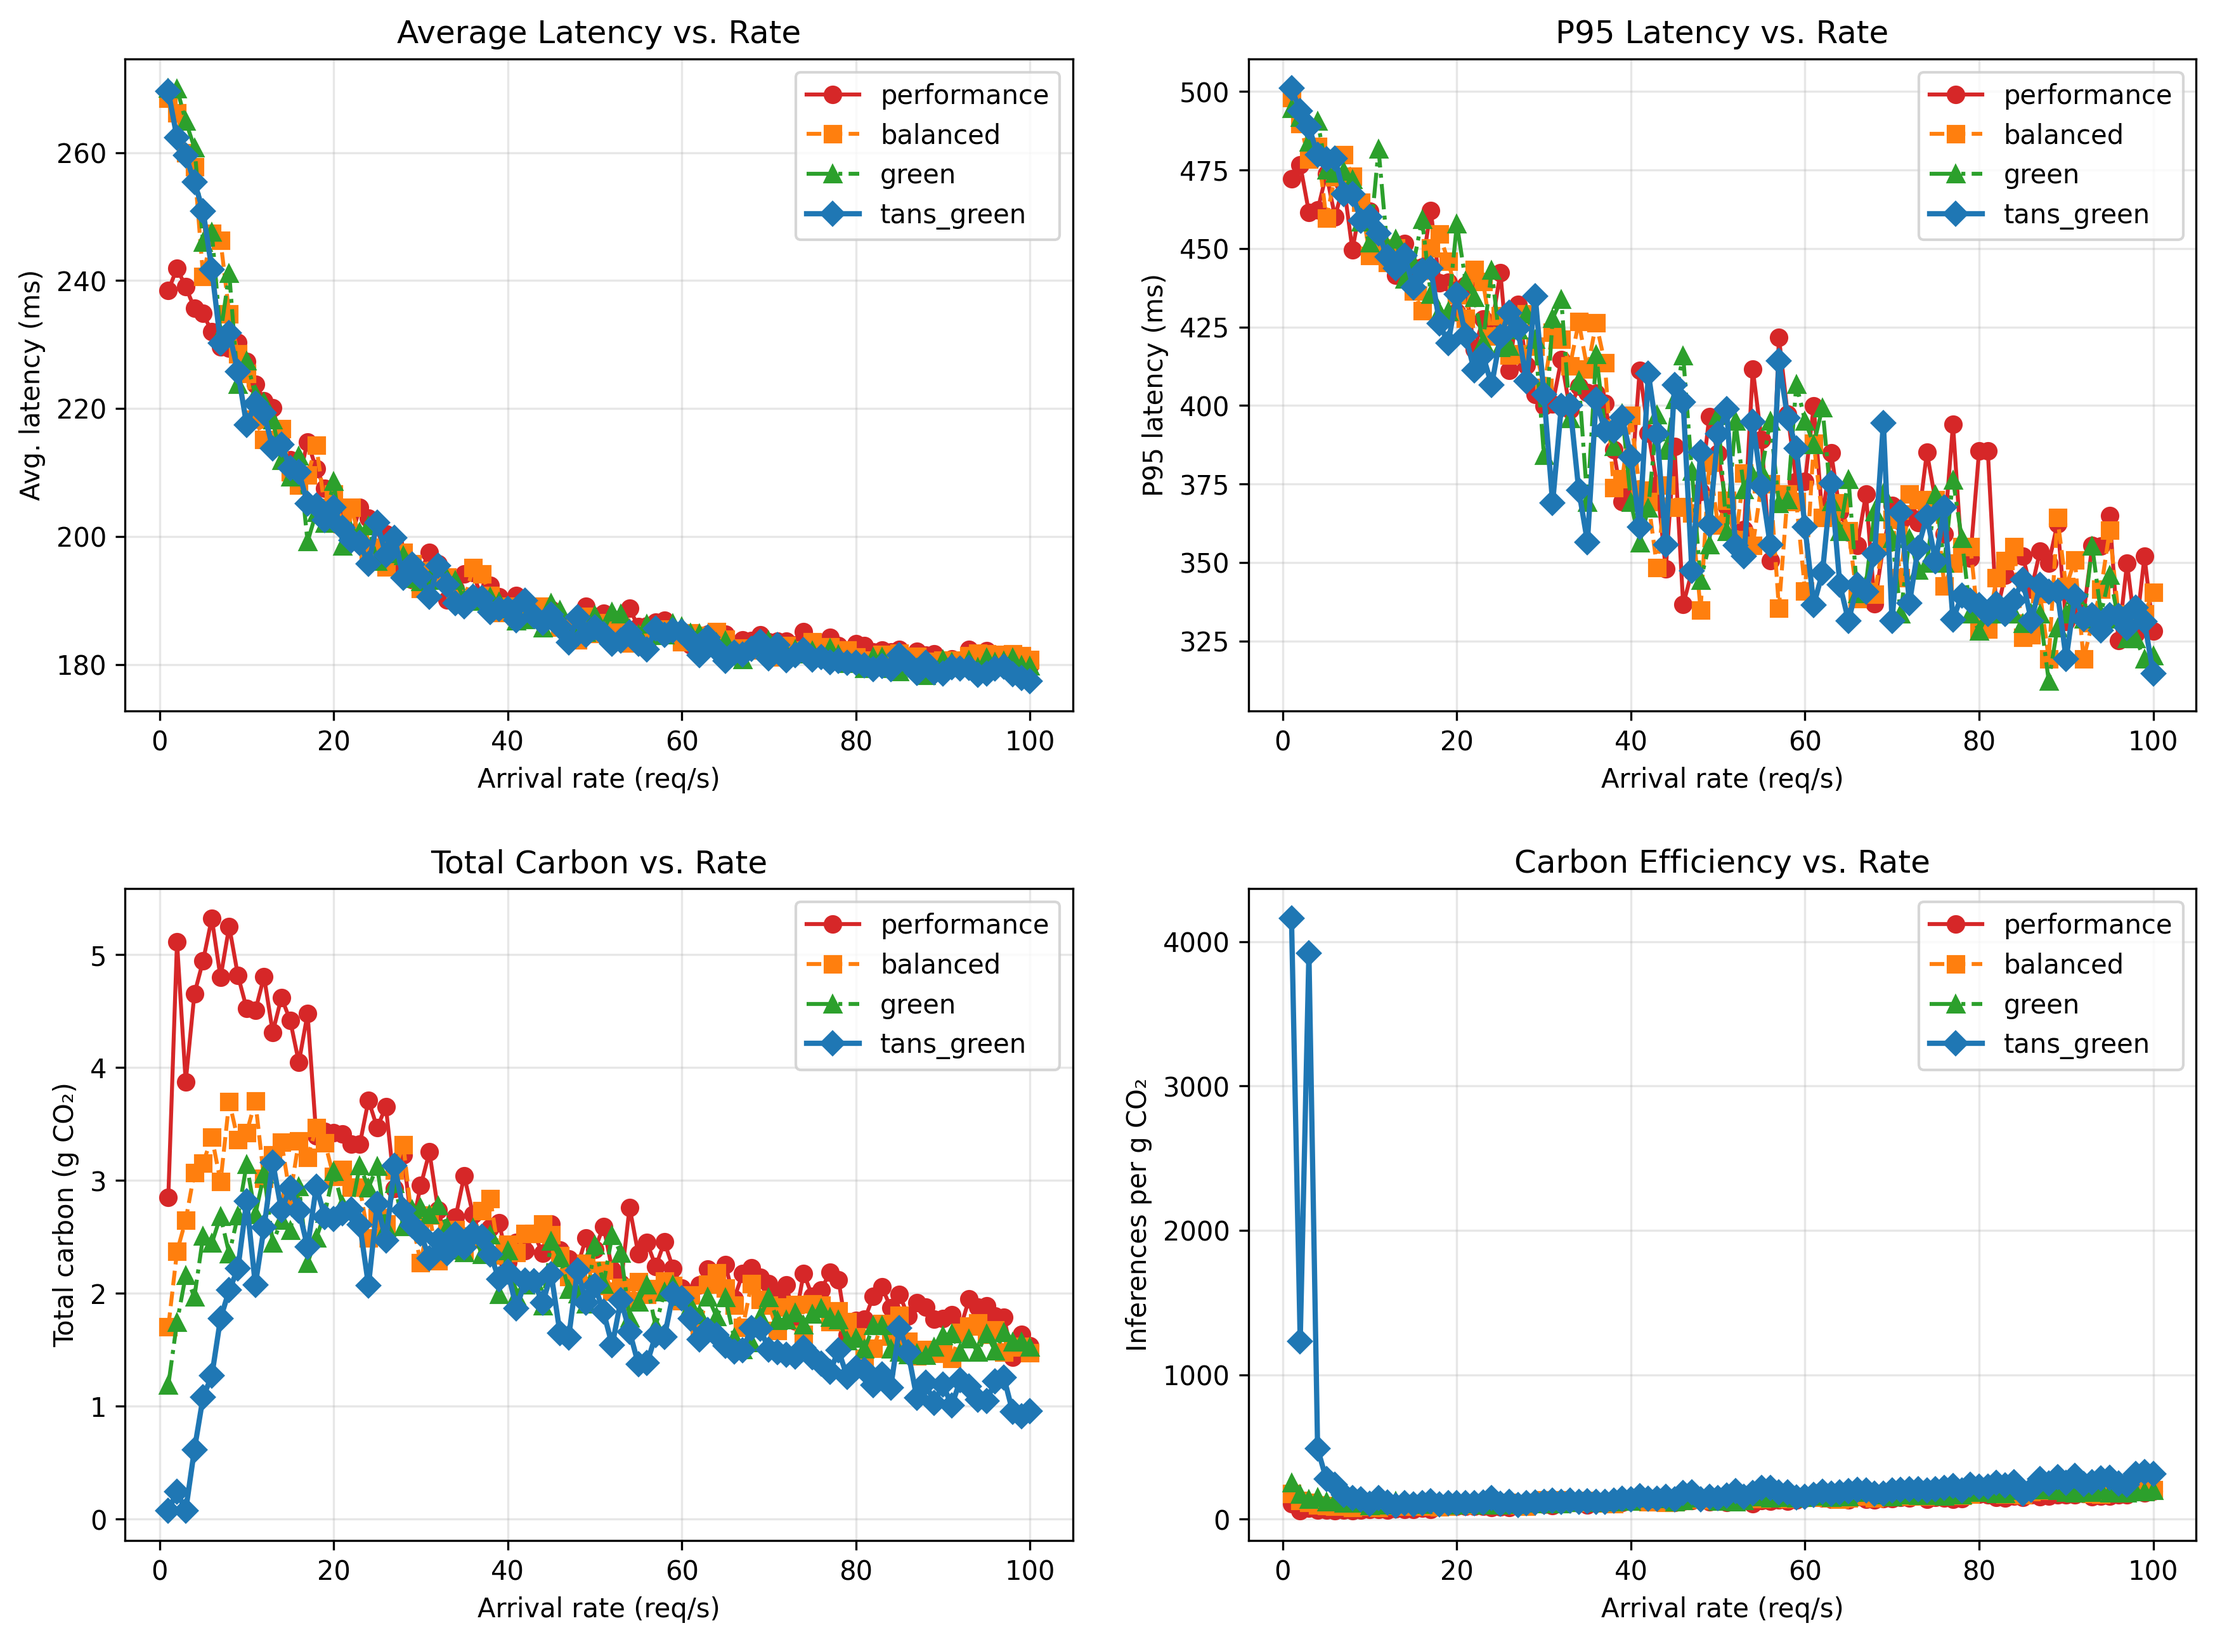
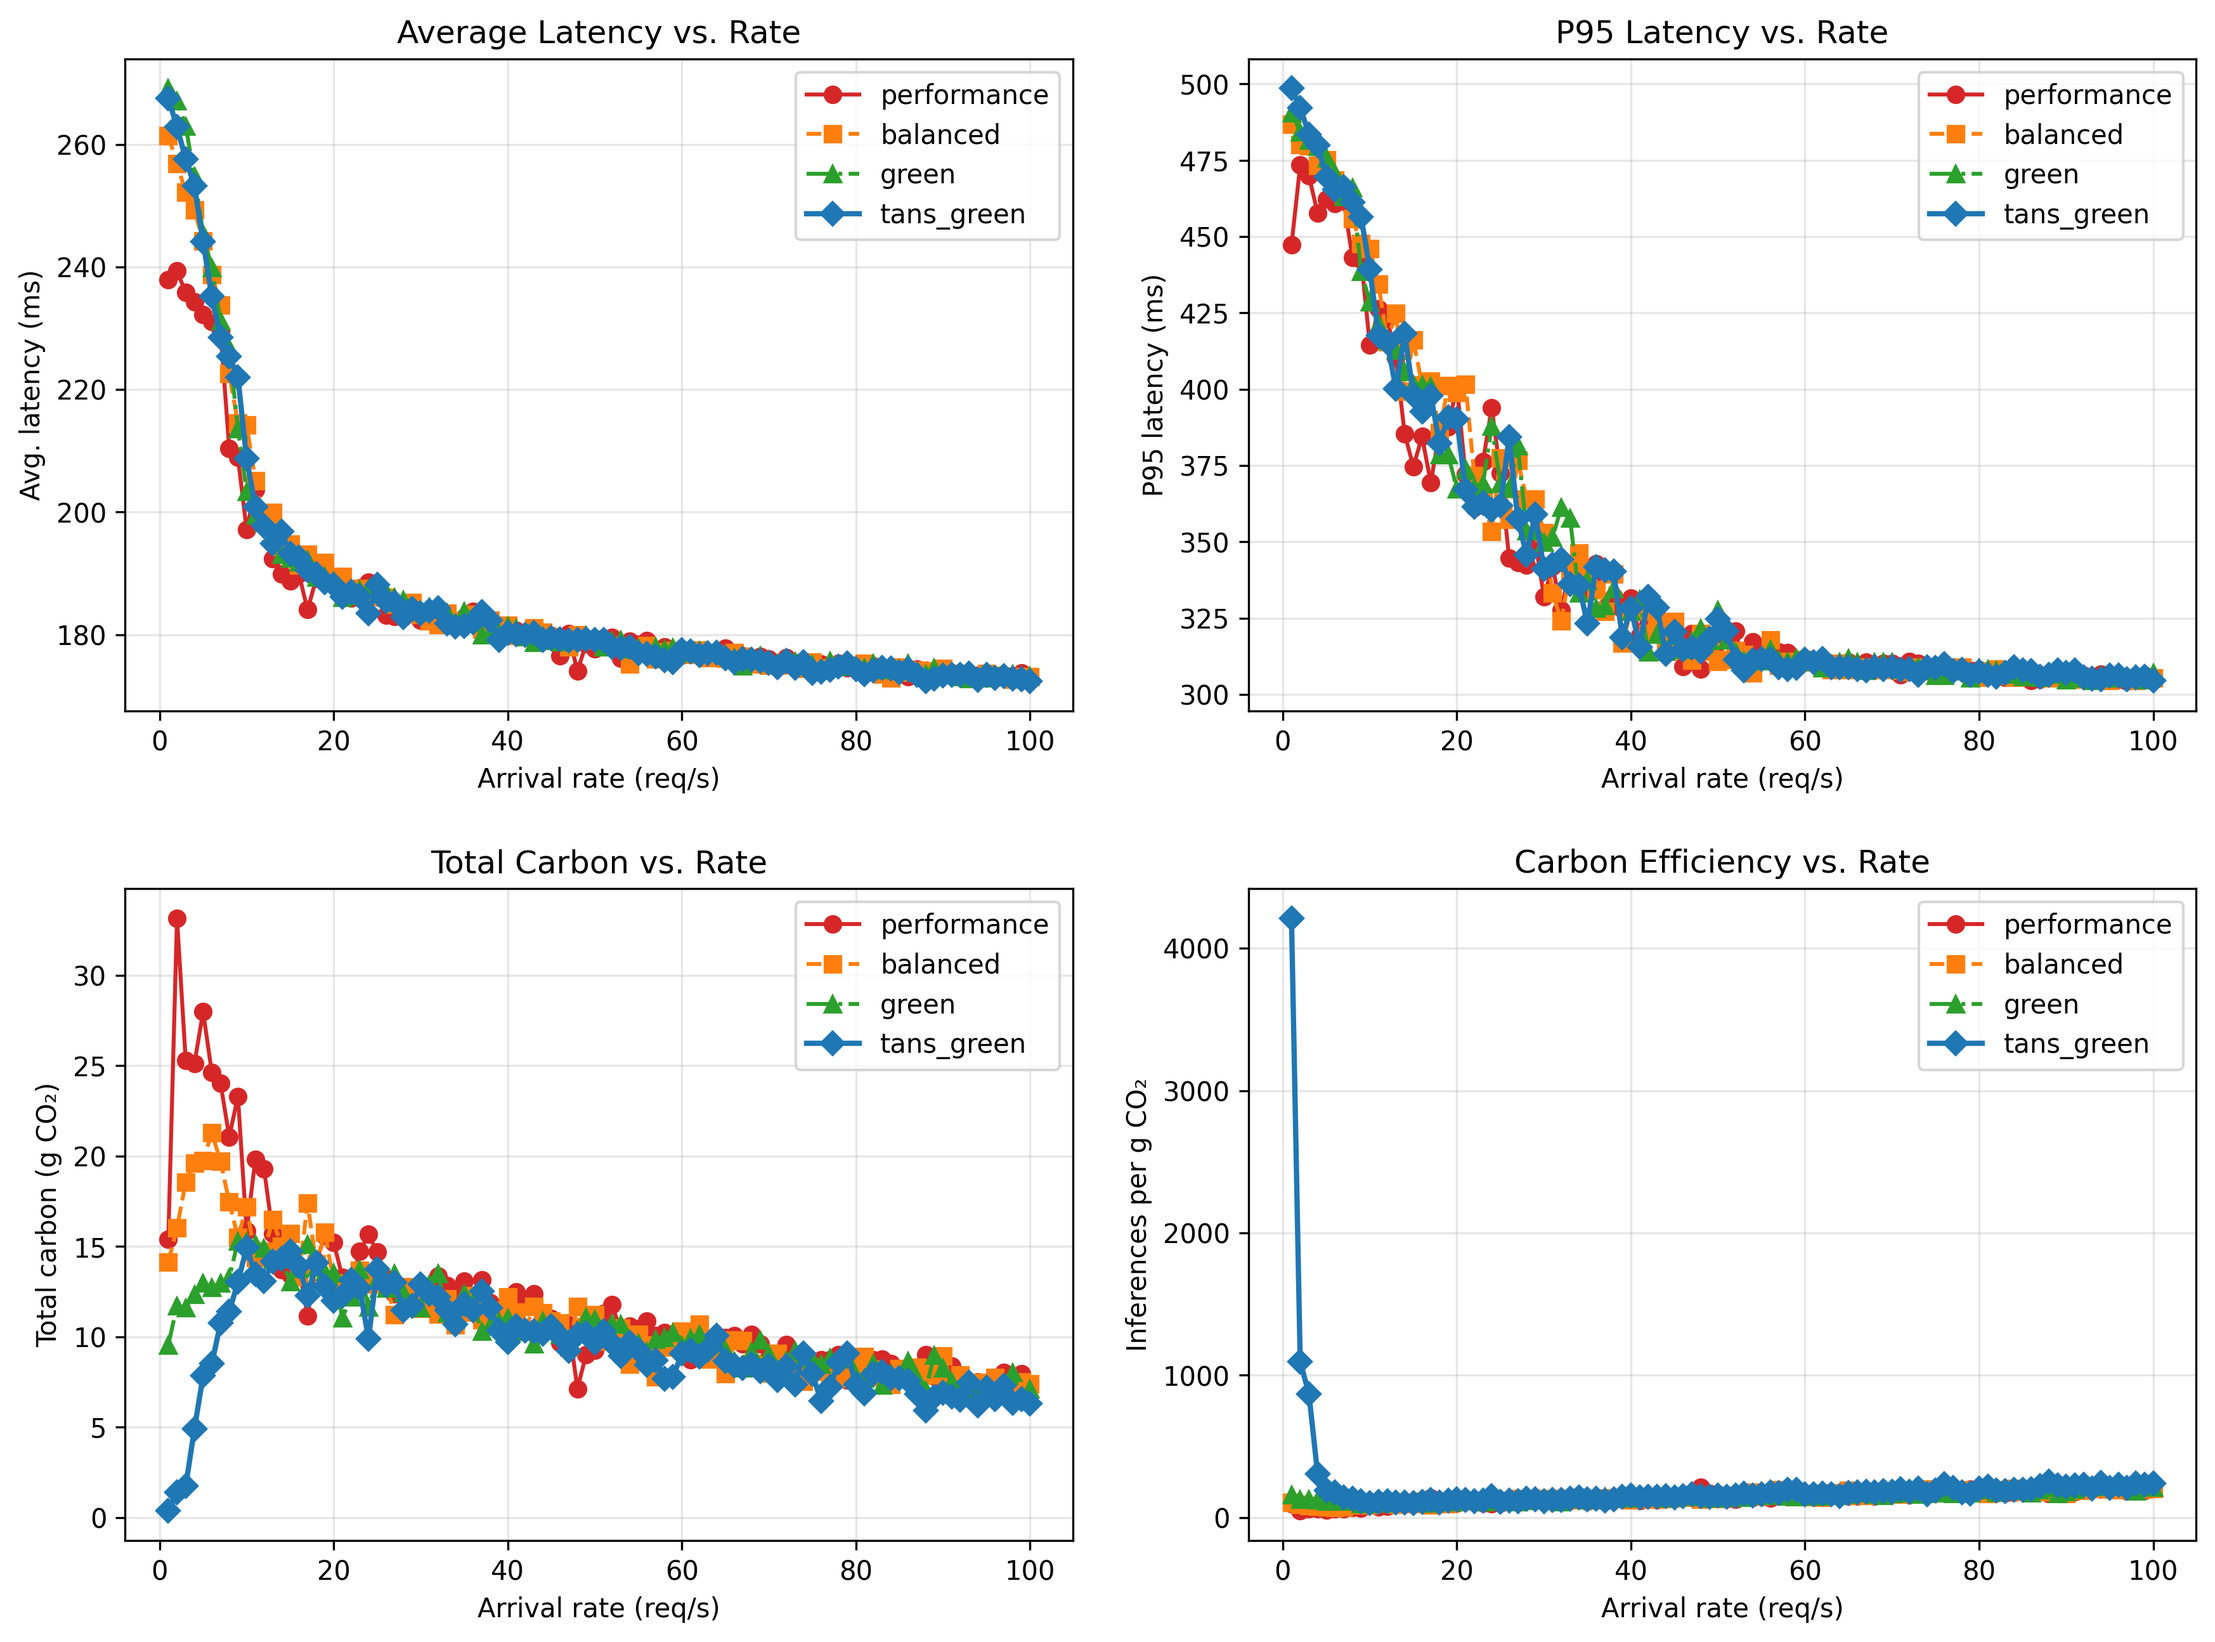
added fairness score correct for baselines

diff --git a/experiments/rate_sweep.py b/experiments/rate_sweep.py
@@ -21,30 +21,30 @@ MODEL_NAME = "vgg16"          # used for output filename
 
 # Node configuration (uncomment the desired set)
 # Heterogeneous nodes (fast CPUs on slow wireless, slower CPUs on fast fiber)
-# NODES = [
-# NodeProfile(name="node-1", cpu_cores=1.0, ram_gb=2.0, carbon_intensity_gco2_kwh=620, avg_power_w=25, network_type="4g_lte"),
-# NodeProfile(name="node-2", cpu_cores=0.9, ram_gb=1.8, carbon_intensity_gco2_kwh=580, avg_power_w=22, network_type="5g"),
-# NodeProfile(name="node-3", cpu_cores=0.8, ram_gb=1.6, carbon_intensity_gco2_kwh=450, avg_power_w=18, network_type="wifi"),
-# NodeProfile(name="node-4", cpu_cores=0.7, ram_gb=1.4, carbon_intensity_gco2_kwh=350, avg_power_w=15, network_type="fiber"),
-# NodeProfile(name="node-5", cpu_cores=0.65, ram_gb=1.2, carbon_intensity_gco2_kwh=250, avg_power_w=15, network_type="fiber"),
-# NodeProfile(name="node-6", cpu_cores=0.6, ram_gb=1.0, carbon_intensity_gco2_kwh=200, avg_power_w=15, network_type="fiber"),
- 
-# ]
-NETWORK_TYPE = "homo"
-
-# Homogeneous nodes (all fiber) – uncomment below and comment the above block
 NODES = [
-NodeProfile(name="node-1", cpu_cores=1.0, ram_gb=2.0, carbon_intensity_gco2_kwh=620, avg_power_w=25, network_type="fiber"),
-NodeProfile(name="node-2", cpu_cores=0.9, ram_gb=1.8, carbon_intensity_gco2_kwh=580, avg_power_w=22, network_type="fiber"),
-NodeProfile(name="node-3", cpu_cores=0.8, ram_gb=1.6, carbon_intensity_gco2_kwh=450, avg_power_w=18, network_type="fiber"),
+NodeProfile(name="node-1", cpu_cores=1.0, ram_gb=2.0, carbon_intensity_gco2_kwh=620, avg_power_w=25, network_type="4g_lte"),
+NodeProfile(name="node-2", cpu_cores=0.9, ram_gb=1.8, carbon_intensity_gco2_kwh=580, avg_power_w=22, network_type="5g"),
+NodeProfile(name="node-3", cpu_cores=0.8, ram_gb=1.6, carbon_intensity_gco2_kwh=450, avg_power_w=18, network_type="wifi"),
 NodeProfile(name="node-4", cpu_cores=0.7, ram_gb=1.4, carbon_intensity_gco2_kwh=350, avg_power_w=15, network_type="fiber"),
 NodeProfile(name="node-5", cpu_cores=0.65, ram_gb=1.2, carbon_intensity_gco2_kwh=250, avg_power_w=15, network_type="fiber"),
 NodeProfile(name="node-6", cpu_cores=0.6, ram_gb=1.0, carbon_intensity_gco2_kwh=200, avg_power_w=15, network_type="fiber"),
+ 
 ]
+NETWORK_TYPE = "hetero"
+
+# Homogeneous nodes (all fiber) – uncomment below and comment the above block
+# NODES = [
+# NodeProfile(name="node-1", cpu_cores=1.0, ram_gb=2.0, carbon_intensity_gco2_kwh=620, avg_power_w=25, network_type="fiber"),
+# NodeProfile(name="node-2", cpu_cores=0.9, ram_gb=1.8, carbon_intensity_gco2_kwh=580, avg_power_w=22, network_type="fiber"),
+# NodeProfile(name="node-3", cpu_cores=0.8, ram_gb=1.6, carbon_intensity_gco2_kwh=450, avg_power_w=18, network_type="fiber"),
+# NodeProfile(name="node-4", cpu_cores=0.7, ram_gb=1.4, carbon_intensity_gco2_kwh=350, avg_power_w=15, network_type="fiber"),
+# NodeProfile(name="node-5", cpu_cores=0.65, ram_gb=1.2, carbon_intensity_gco2_kwh=250, avg_power_w=15, network_type="fiber"),
+# NodeProfile(name="node-6", cpu_cores=0.6, ram_gb=1.0, carbon_intensity_gco2_kwh=200, avg_power_w=15, network_type="fiber"),
+# ]
 # NETWORK_TYPE = "homo"
 
 # Simulation settings
-NUM_REQUESTS = 100          # requests per run
+NUM_REQUESTS = 500        # requests per run
 MS_PER_100_MFLOPS = 6.0     # compute cost calibration
 SEED = 42
 MAX_CONCURRENT = 1          # crucial for transfer‑trap breakthrough

diff --git a/src/core/task_scheduler.py b/src/core/task_scheduler.py
@@ -287,10 +287,14 @@ class TANSScheduler:
             if self._mode == SchedulingMode.TANS_GREEN:
                 sP = 1.0 / (1.0 + (live.avg_exec_time() + transfer_delay_ms) / 100.0)
                  
-            # Bandwidth score exactly as in Algorithm 1
-            _bw_map = {"4g_lte": 50.0, "5g": 100.0, "wifi": 100.0, "fiber": 500.0}
-            B_max = max(_bw_map.values())
-            sB = _bw_map.get(node.network_type.lower(), 100.0) / B_max
+                 
+            if self._mode == SchedulingMode.TANS_GREEN:
+                _bw_map = {"4g_lte": 50.0, "5g": 100.0, "wifi": 100.0, "fiber": 500.0}
+                B_max = max(_bw_map.values())
+                sB = _bw_map.get(node.network_type.lower(), 100.0) / B_max
+            else:
+                # Original CarbonEdge fairness/balance score
+                sB = 1.0 / (1.0 + live.task_count * 2)
             
             # Calculate carbon metrics for this node
             e_comp = carbon.estimate_inference_energy()
